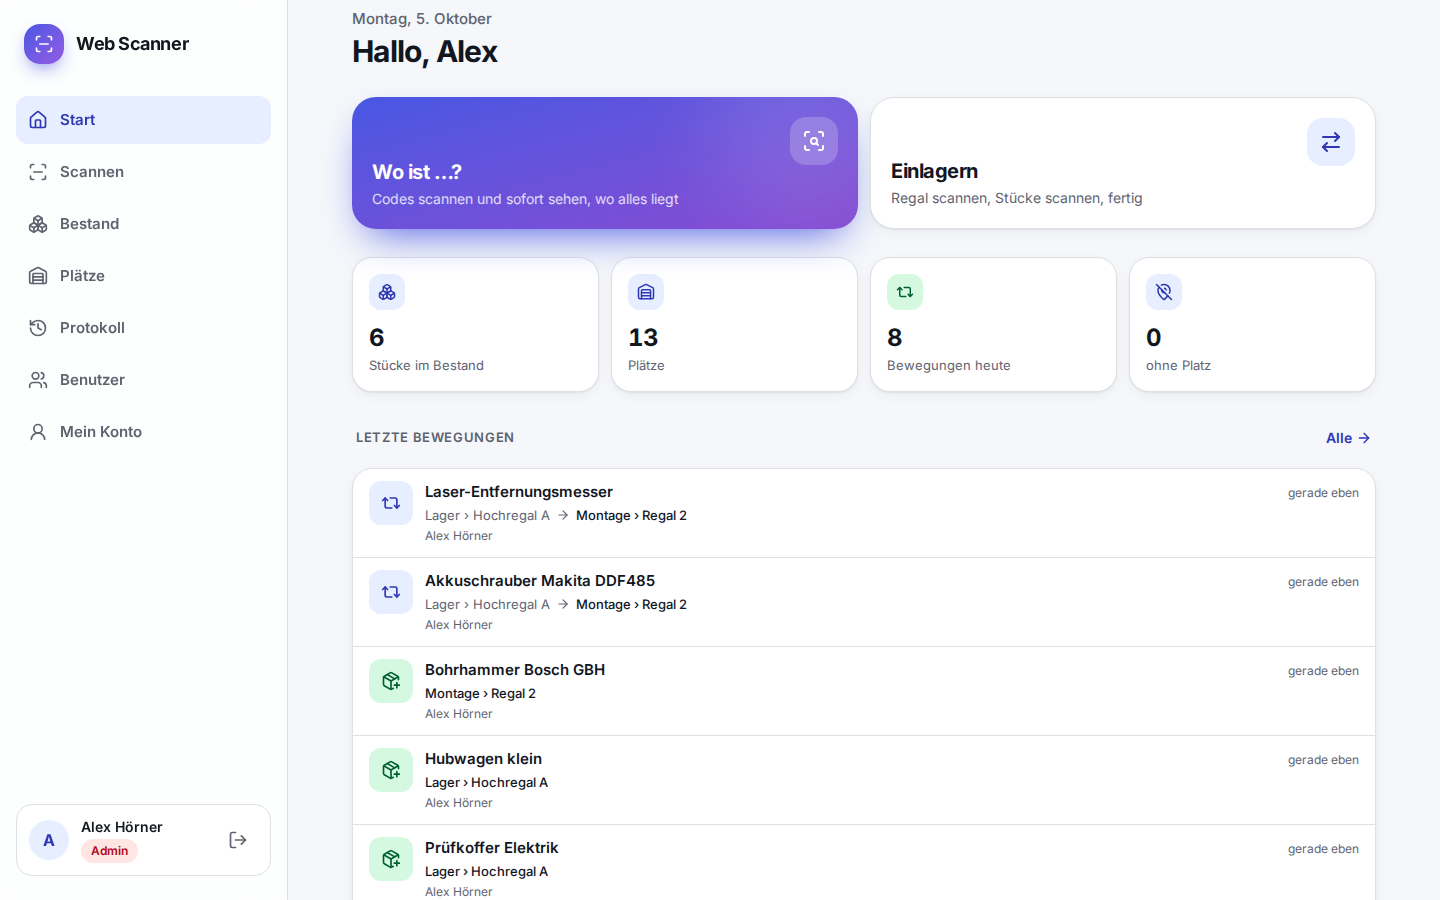
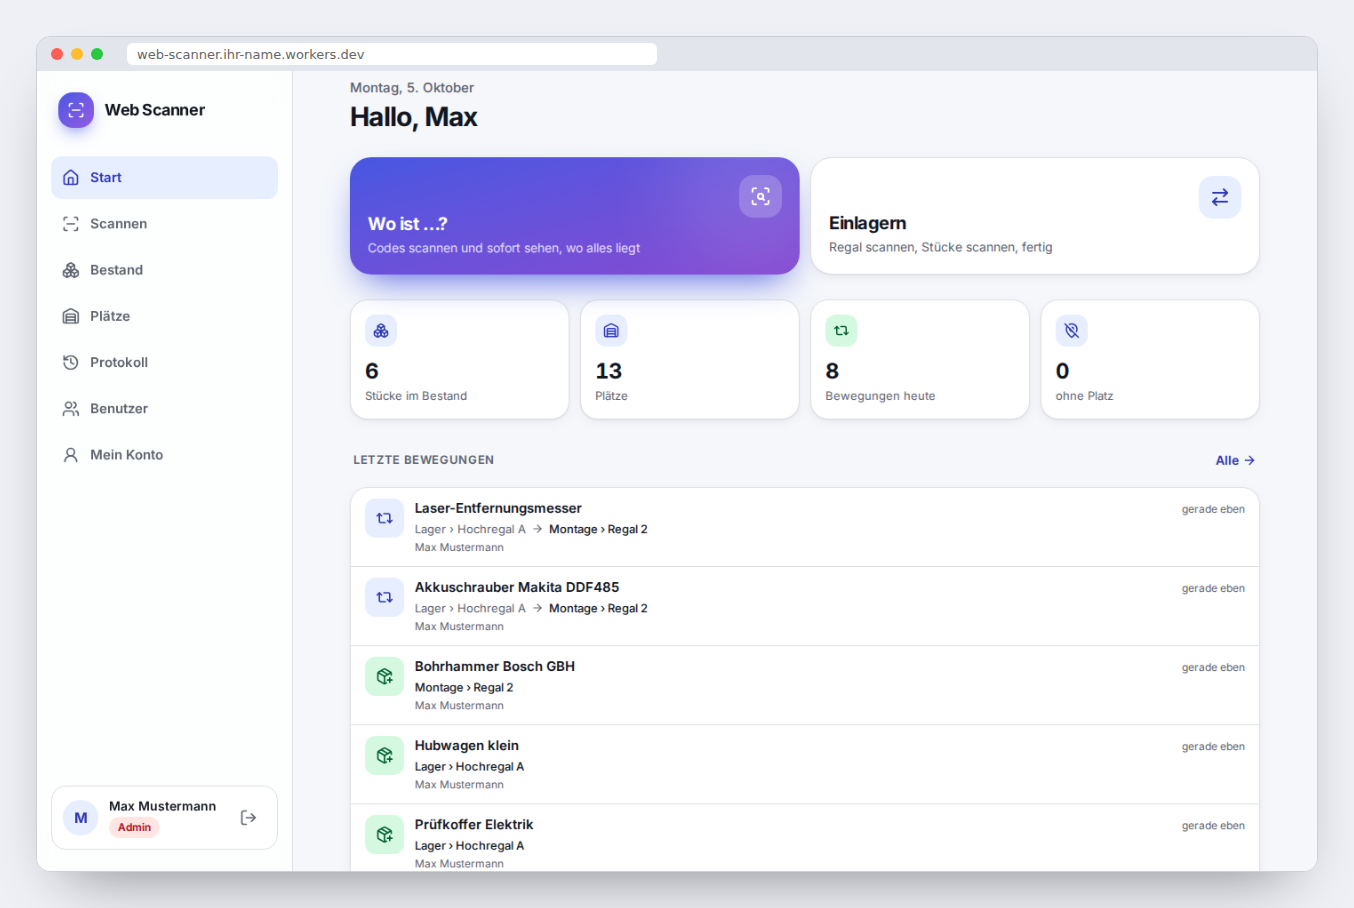
README mit Screenshots und Schritt-für-Schritt-Anleitung
- Neue Bilder in docs/bilder (Handy, PC, hell/dunkel, Etiketten,
  Benutzer) mit Demonamen statt echter Namen
- Erstes Admin-Konto bekommt beim Einrichten gleich "letzte Anmeldung"
  (zeigte sonst "noch nie angemeldet"), mit Test

Claude-Session: https://claude.ai/code/session_01Axsk4nfNWJTT9tT5oYJqAD

diff --git a/src/worker/routen/auth.ts b/src/worker/routen/auth.ts
@@ -22,10 +22,10 @@ authRouten.post("/einrichten", async (c) => {
   const e = await eingabe(c, einrichtenSchema);
   const hash = await passwortHashen(e.passwort, runden(c.env));
   const erg = await c.env.DB.prepare(
-    `INSERT INTO benutzer (benutzername, name, rolle, passwort_hash, erstellt_am)
-     SELECT ?, ?, 'admin', ?, ? WHERE NOT EXISTS (SELECT 1 FROM benutzer)`,
+    `INSERT INTO benutzer (benutzername, name, rolle, passwort_hash, erstellt_am, letzte_anmeldung)
+     SELECT ?, ?, 'admin', ?, ?, ? WHERE NOT EXISTS (SELECT 1 FROM benutzer)`,
   )
-    .bind(e.benutzername, e.name, hash, jetzt())
+    .bind(e.benutzername, e.name, hash, jetzt(), jetzt())
     .run();
   if (!erg.meta.changes) fehler(409, "Die App ist bereits eingerichtet");
   const id = erg.meta.last_row_id;

diff --git a/tests/api.test.ts b/tests/api.test.ts
@@ -10,6 +10,8 @@ describe("Einrichten und Anmelden", () => {
 
     const admin = await adminEinrichten();
     expect((await admin.get("/auth/ich")).daten.benutzer).toMatchObject({ rolle: "admin", name: "Chef Admin" });
+    const liste = await admin.get("/benutzer");
+    expect(liste.daten[0].letzte_anmeldung).not.toBeNull();
     expect((await gast.get("/auth/einrichten")).daten).toEqual({ noetig: false });
 
     const zweiter = await gast.post("/auth/einrichten", { benutzername: "xy", name: "X", passwort: "geheim-12345" });

diff --git a/README.md b/README.md
@@ -1,77 +1,166 @@
 # Web Scanner
 
-Web-App auf **Cloudflare (kostenloser Tarif)** zum Lesen von **Strichcodes und QR-Codes**: mehrere Codes scannen, sofort sehen, **wo jedes Stück liegt**, Stücke einlagern und umbuchen – mit **eigenen Benutzerkonten**, **Rollen** und **lückenlosem Protokoll**.
+**Strichcodes und QR-Codes scannen – und sofort sehen, wo jedes Stück liegt.**
 
-![Handy-Ansicht: Start, Einlagern, Stück](docs/bilder/handy.png)
+Web-App für Handy, Tablet und PC. Läuft im **kostenlosen Tarif von Cloudflare**, braucht keine Installation aus dem App-Store und funktioniert auf iPhone, Android und am PC gleich. Jede Person hat ein **eigenes Konto**, jede Bewegung landet in einem **Protokoll, das sich nicht ändern lässt**.
+
+![Start, Einlagern und Stück-Ansicht am Handy](docs/bilder/uebersicht.png)
+
+---
+
+## Inhalt
+
+- [Funktionen](#funktionen)
+- [So funktioniert’s](#so-funktionierts)
+  - [1. Einrichten und anmelden](#1-einrichten-und-anmelden)
+  - [2. Abteilungen und Regale anlegen](#2-abteilungen-und-regale-anlegen)
+  - [3. Etiketten drucken](#3-etiketten-drucken)
+  - [4. Scannen: „Wo ist …?“ und „Einlagern“](#4-scannen-wo-ist--und-einlagern)
+  - [5. Bestand und Protokoll](#5-bestand-und-protokoll)
+  - [6. Benutzer verwalten](#6-benutzer-verwalten)
+- [Rollen](#rollen)
+- [Am PC](#am-pc)
+- [Hell und dunkel](#hell-und-dunkel)
+- [Auf Cloudflare veröffentlichen (kostenlos)](#auf-cloudflare-veröffentlichen-kostenlos)
+- [Entwicklung](#entwicklung)
+
+---
 
 ## Funktionen
 
-- **Scannen mit der Kamera** (iPhone, Android, PC) – mehrere Codes nacheinander oder gleichzeitig im Bild, Ton + Vibration, Taschenlampe. QR, DataMatrix, Code 128/39/93, EAN-13/8, UPC, ITF, Codabar.
-- **Foto auswerten**: ein Foto mit vielen Etiketten → alle Codes auf einmal.
-- **Handscanner** (USB/Bluetooth) und **Eintippen** funktionieren genauso.
-- **„Wo ist …?“**: gescannte Stücke zeigen sofort Abteilung › Regal, wann und von wem zuletzt bewegt.
-- **Einlagern / Umbuchen**: Regal-Etikett scannen → Stücke scannen → ein Tipp. Alles in einer Transaktion.
-- **Unbekannte Codes direkt erfassen** (Name, Kategorie) – gleich ins gescannte Regal.
-- **Plätze**: Abteilungen → Regale (→ Fächer), Regale auch als Reihe („Regal 1“ bis „Regal 20“) anlegen.
-- **QR-Etiketten drucken** für Regale (A4-Bögen 21 oder 8 pro Seite).
-- **Bestand** mit Suche und Filtern (ohne Platz, defekt, ausgemustert), **Verlauf je Stück**.
-- **Protokoll**: jede Bewegung und jede Änderung – wer, was, wann, von wo nach wo. **Unveränderbar** (Datenbank-Trigger), Export als **CSV für Excel**.
-- **Benutzer und Rollen**: Leser · Mitarbeiter · Leitung · Admin. Jede Person hat ein eigenes Konto; Startpasswort muss beim ersten Anmelden geändert werden; Sperre nach 5 Fehlversuchen.
-- **Hell / Dunkel / automatisch**, große Bedienelemente (≥ 48 px, Hauptaktionen 56–64 px), als App auf dem Handy installierbar.
+| | |
+|---|---|
+| 📷 **Scannen mit der Kamera** | QR, DataMatrix, Code 128/39/93, EAN-13/8, UPC, ITF, Codabar. Mehrere Codes nacheinander oder gleichzeitig im Bild, Ton + Vibration, Taschenlampe. |
+| 🖼 **Foto auswerten** | Ein Foto mit vielen Etiketten → alle Codes auf einmal. |
+| ⌨ **Handscanner & Eintippen** | USB-/Bluetooth-Handscanner und manuelle Eingabe funktionieren genauso. |
+| 📍 **„Wo ist …?“** | Zu jedem gescannten Stück: Abteilung › Regal, wann und von wem zuletzt bewegt. |
+| 📦 **Einlagern / Umbuchen** | Regal-Etikett scannen → Stücke scannen → ein Tipp. Alles oder nichts. |
+| ➕ **Direkt erfassen** | Unbekannter Code? Name eingeben – das Stück liegt sofort im gescannten Regal. |
+| 🏷 **QR-Etiketten** | Für Regale und Abteilungen, auf A4-Bögen (21 oder 8 pro Seite). |
+| 🔎 **Bestand** | Suche nach Name, Code, Kategorie; Filter „ohne Platz“, „defekt“, „ausgemustert“. |
+| 🕓 **Protokoll** | Jede Bewegung und Änderung – wer, was, wann, von wo nach wo. Unveränderbar. Export als CSV für Excel. |
+| 👥 **Konten & Rollen** | Leser · Mitarbeiter · Leitung · Admin. Startpasswort muss geändert werden, Sperre nach 5 Fehlversuchen. |
+| 🌗 **Hell / Dunkel** | Automatisch nach Gerät oder fest eingestellt. Große Knöpfe – auch mit Handschuhen bedienbar. |
+| 📱 **Als App installierbar** | „Zum Startbildschirm hinzufügen“ – startet dann wie eine normale App. |
 
-![Desktop-Ansicht](docs/bilder/desktop.png)
+---
+
+## So funktioniert’s
+
+### 1. Einrichten und anmelden
+
+Beim allerersten Aufruf legst du das **erste Konto** an – es bekommt alle Rechte (Admin). Danach meldet sich jede Person mit ihrem **eigenen Konto** an. Die Startseite zeigt die ersten Schritte, bis Plätze angelegt sind.
+
+![Erster Start, Anmelden, erste Schritte](docs/bilder/zugang.png)
+
+### 2. Abteilungen und Regale anlegen
+
+Unter **Plätze** legst du Abteilungen an (z. B. Montage, Lager) und darin die Regale. Viele Regale gehen auf einmal: „Regal 1“ bis „Regal 20“. Jedes Regal bekommt automatisch einen eigenen QR-Code.
+
+![Plätze, Regale als Reihe anlegen, Regal mit QR-Code](docs/bilder/plaetze.png)
+
+### 3. Etiketten drucken
+
+Pro Abteilung oder für einzelne Regale: **Etiketten drucken** öffnet eine Druckansicht für A4-Etikettenbögen. Ausdrucken, ans Regal kleben – fertig.
+
+![Druckansicht für QR-Etiketten](docs/bilder/etiketten.png)
+
+> Tipp: Im Druckdialog „Tatsächliche Größe“ bzw. Skalierung 100 % wählen und Ränder auf „Keine“ stellen.
+
+### 4. Scannen: „Wo ist …?“ und „Einlagern“
+
+- **Wo ist …?** – Codes scannen, auch mehrere auf einmal. Zu jedem Stück steht groß, wo es liegt.
+- **Einlagern** – zuerst das **Regal-Etikett** scannen, dann alle Stücke, die hinein sollen. Ein Tipp auf „Einlagern“ bucht alle zusammen.
+- **Unbekannter Code** – „Neu erfassen“, Namen eingeben, fertig. Das Stück liegt gleich im gescannten Regal.
+
+![Wo ist, Einlagern, neues Stück erfassen](docs/bilder/scannen.png)
+
+### 5. Bestand und Protokoll
+
+Im **Bestand** findest du jedes Stück über die Suche oder die Filter. Das **Protokoll** zeigt lückenlos, wer was wann wohin gebracht hat – nach Zeitraum und Person filterbar und als **CSV für Excel** exportierbar. Einträge im Protokoll können nicht geändert oder gelöscht werden.
+
+![Bestand und Protokoll](docs/bilder/bestand.png)
+
+### 6. Benutzer verwalten
+
+Admins legen unter **Benutzer** neue Konten an und vergeben die Rolle. Die App erzeugt ein **Startpasswort**, das beim ersten Anmelden geändert werden muss. Benutzer werden nie gelöscht, nur gesperrt – damit das Protokoll vollständig bleibt.
+
+![Benutzer angelegt mit Startpasswort](docs/bilder/benutzer.png)
+
+---
 
 ## Rollen
 
 | Rolle | Darf |
 |---|---|
-| Leser | scannen, nachsehen wo etwas ist, Verlauf ansehen |
-| Mitarbeiter | + einlagern, umbuchen, neue Stücke erfassen; eigenes Protokoll |
-| Leitung | + Abteilungen/Regale anlegen, Etiketten drucken, Stücke bearbeiten/ausmustern, komplettes Protokoll + Export |
-| Admin | + Benutzer anlegen, Rollen vergeben, sperren, Passwort zurücksetzen, Datensicherung |
+| **Leser** | scannen, nachsehen wo etwas ist, Verlauf ansehen |
+| **Mitarbeiter** | + einlagern, umbuchen, neue Stücke erfassen; eigenes Protokoll |
+| **Leitung** | + Abteilungen/Regale anlegen, Etiketten drucken, Stücke bearbeiten/ausmustern, komplettes Protokoll + Export |
+| **Admin** | + Benutzer anlegen, Rollen vergeben, sperren, Passwort zurücksetzen, Datensicherung |
 
-Die Rechte werden bei **jeder Anfrage auf dem Server** geprüft.
+Die Rechte werden bei **jeder Anfrage auf dem Server** geprüft – nicht nur in der Oberfläche.
+
+---
+
+## Am PC
+
+Am großen Bildschirm gibt es eine Seitenleiste statt der unteren Leiste. Ein USB-Handscanner funktioniert dort ohne Einrichtung.
+
+![Startseite am PC](docs/bilder/desktop.png)
+
+![Plätze am PC](docs/bilder/desktop-plaetze.png)
+
+---
+
+## Hell und dunkel
+
+Unter **Mein Konto** wählbar: automatisch (nach Geräteeinstellung), hell oder dunkel.
+
+![Dunkler Modus](docs/bilder/dunkel.png)
+
+---
 
 ## Auf Cloudflare veröffentlichen (kostenlos)
 
 1. Kostenloses Konto auf [dash.cloudflare.com](https://dash.cloudflare.com) anlegen.
 2. **Workers & Pages → Erstellen → „Repository importieren“** → GitHub verbinden → dieses Repository wählen.
-3. Einstellungen übernehmen:
+3. Einstellungen:
    - Build-Befehl: `npm run build`
    - Deploy-Befehl: `npx wrangler deploy`
    - Produktions-Branch: `main`
-4. **Bereitstellen.** Die Datenbank (D1, Name `web-scanner`) legt `wrangler deploy` beim ersten Mal selbst an; die Tabellen legt die App beim ersten Aufruf selbst an.
+4. **Bereitstellen.** Die Datenbank (D1, Name `web-scanner`) legt `wrangler deploy` beim ersten Mal selbst an, die Tabellen legt die App beim ersten Aufruf an.
    Falls die Bereitstellung wegen der Datenbank abbricht: unter **Storage & Databases → D1** eine Datenbank `web-scanner` anlegen und deren ID in `wrangler.jsonc` als `"database_id"` eintragen.
 5. Die angezeigte Adresse (`https://web-scanner.<name>.workers.dev`) **sofort** öffnen und das **erste Admin-Konto** anlegen – solange es keinen Benutzer gibt, kann das jeder mit der Adresse.
 6. Unter **Plätze** Abteilungen und Regale anlegen, Etiketten drucken, aufkleben – los geht’s.
 
 Danach wird jeder Push auf `main` automatisch veröffentlicht.
 
-**Kostenloser Tarif:** 100 000 Anfragen/Tag, D1 5 GB. Das reicht für viele Tausend Stücke und Dutzende Benutzer. Passwörter werden deshalb mit 20 000 PBKDF2-Runden gehasht (passt in die 10 ms CPU je Anfrage); im bezahlten Tarif `PBKDF2_RUNDEN` in `wrangler.jsonc` auf `100000` setzen.
+**Kostenloser Tarif:** 100 000 Anfragen pro Tag, Datenbank bis 5 GB – reicht für viele Tausend Stücke und Dutzende Benutzer. Passwörter werden mit 20 000 PBKDF2-Runden gehasht, damit das Anmelden in die 10 ms Rechenzeit pro Anfrage passt; im bezahlten Tarif `PBKDF2_RUNDEN` in `wrangler.jsonc` auf `100000` setzen.
 
-**Datensicherung:** D1 hält automatisch 7 Tage Verlauf zum Zurückspringen („Time Travel“). Zusätzlich kann ein Admin unter *Mein Konto → Datensicherung* alle Daten als JSON herunterladen.
+**Datensicherung:** Cloudflare D1 hält automatisch 7 Tage Verlauf zum Zurückspringen („Time Travel“). Zusätzlich kann ein Admin unter *Mein Konto → Datensicherung* alle Daten als JSON-Datei herunterladen.
+
+---
 
 ## Entwicklung
 
 ```bash
 npm install
-npm run dev        # http://localhost:5173 – App + Worker + lokale Datenbank
-npm test           # API-Tests im echten Workers-Laufzeitsystem (Miniflare)
+npm run dev        # http://localhost:5173 – App + Server + lokale Datenbank
+npm test           # API-Tests im echten Workers-Laufzeitsystem
 npm run build      # Typprüfung + Bauen
 ```
 
-Die Kamera braucht HTTPS – auf `localhost` geht es auch ohne. Zum Testen am Handy im gleichen WLAN: `npm run dev -- --host` und die Seite per HTTPS-Tunnel öffnen, oder direkt die veröffentlichte Version nutzen.
-
-## Aufbau
+Die Kamera braucht HTTPS – auf `localhost` geht es auch ohne. Am Handy am einfachsten direkt die veröffentlichte Version nutzen.
 
 ```
 src/
 ├─ worker/        Server (Cloudflare Worker, Hono): Anmeldung, Rollen, API, Datenbankschema
 ├─ app/           Oberfläche (React, Tailwind): seiten/, scanner/, komponenten/, ui/ (Design-System)
-└─ gemeinsam/     Rollen/Rechte, Prüfregeln (zod), Typen – von beiden Seiten genutzt
+└─ gemeinsam/     Rollen/Rechte, Prüfregeln, Typen – von Server und Oberfläche genutzt
 tests/            API-Tests
-docs/             Plan, Design-System
+docs/             Plan, Design-System, Bilder
 ```
 
+Weitere Doku:
 - [docs/PLAN.md](docs/PLAN.md) – Projektplan und Stand
 - [docs/design-system.md](docs/design-system.md) – Farben, Schrift, Komponenten, Barrierefreiheit
